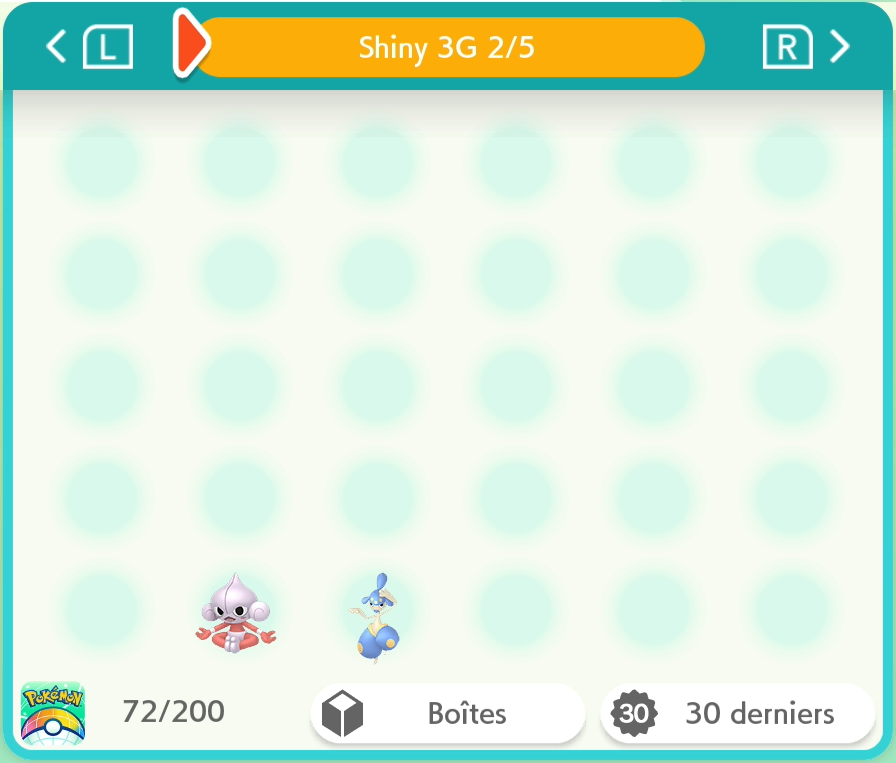
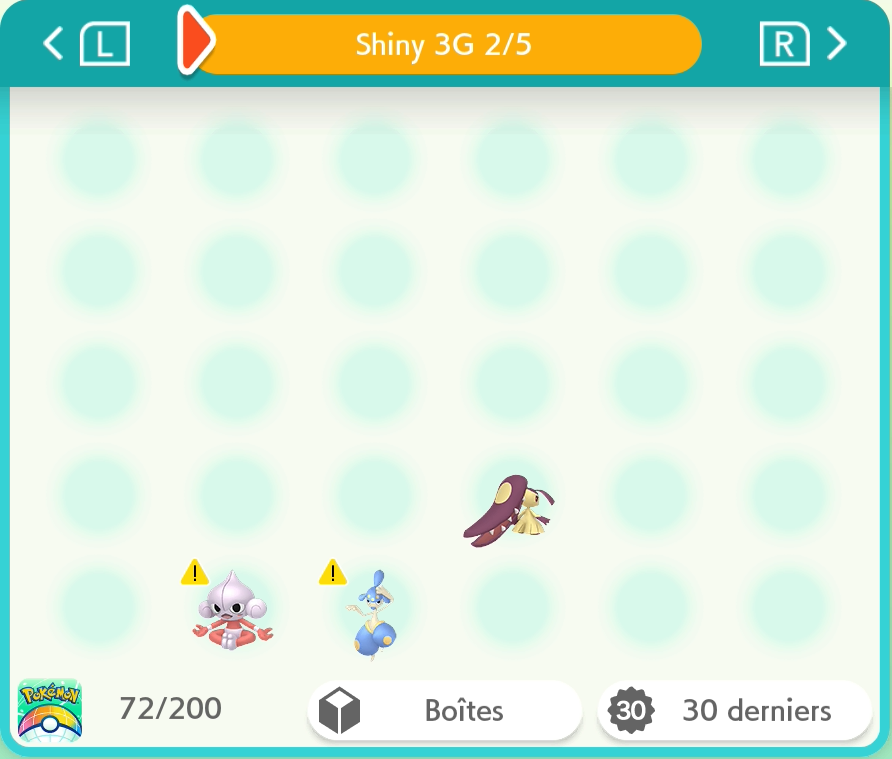
3G: Mysdibule | 8G : M.Glaquette | Forme de Galar : M.Mime

diff --git a/README.md b/README.md
@@ -2,27 +2,27 @@
 
 Pokémon-Elément-Sh -> <a href="https://www.pokemon-element-sh.fr/profil/karyno21" target="_blank">Karyno21</a>
 
-↓ Dernière Update le 29/05/2026 à 2h41 ↓
-### Dex National [246/999] +10
+↓ Dernière Update le 29/05/2026 à 5h01 ↓
+### Dex National [248/999] +12
 
 | Gen | Prog | Notes |
 |:--:|:--:|---|
 |1G|42/151|+2 Mackogneur & Galopa|
 |2G|32/100|+2 Pharamp & Cotovol|
-|3G|19/135||
+|3G|20/135|+1 Mysdibule|
 |4G|20/107||
 |5G|26/154||
 |6G|21/70||
 |7G|16/84|J'ai deux Meltan Shiny mais impossible de le faire évolué en Melmétal... (pas compté)|
-|8G|27/90|+5 Distrib Zacian & Éthernatos, Fantyrm, Dispareptil & Lanssorien|
+|8G|28/90|+6 Distrib Zacian & Éthernatos, Fantyrm, Dispareptil, Lanssorien & M.Glaquette|
 |9G|43/108|+1 Terraiste|
 
-### Formes Régionales [45/58] +26
+### Formes Régionales [46/58] +27
 
 | Forme | Prog | Notes |
 |:--:|:--:|---|
 |Alola|18/18|+17 Complété (Familles de Rattata / Goupix / Racaillou / Sabelette / Tadmorv / Taupiqueur & Miaouss, Raichu & Noadkoko)|
-|Galar|6/19|+6 Famille de Ramoloss & Distrib des oiseaux légendaire de Galar|
+|Galar|7/19|+7 Famille de Ramoloss, Distrib des oiseaux légendaire de Galar & M.Mime|
 |Hisui|17/17|Complété|
 |Paldea|4/4|+3 Complété Axoloto, Tauros Aquatique & Flamboyant|
 
